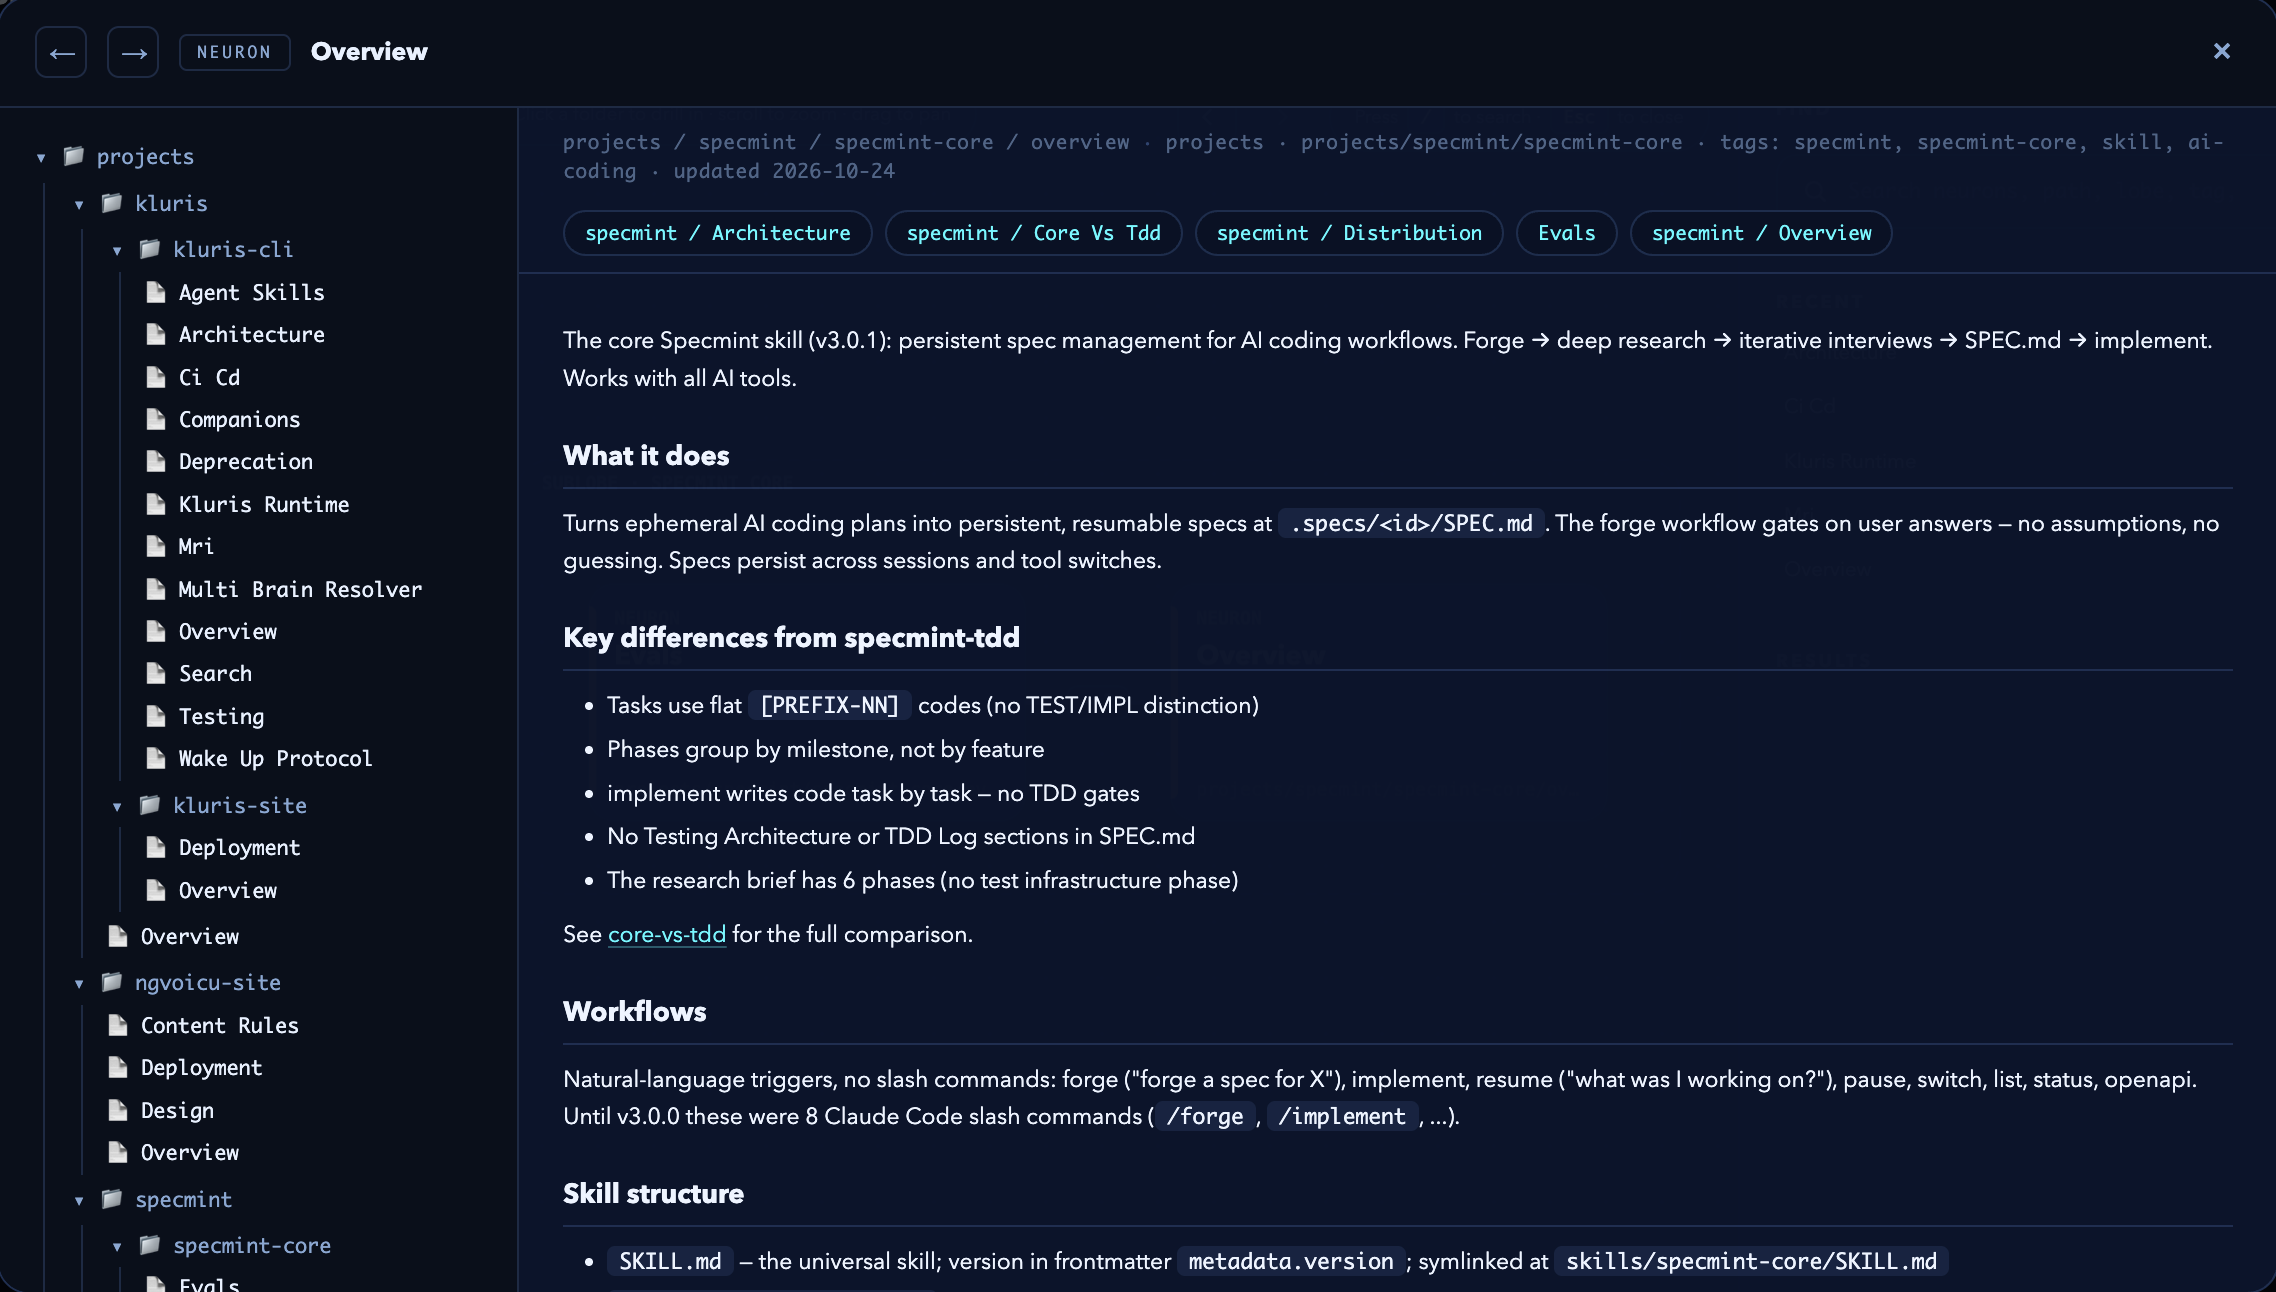
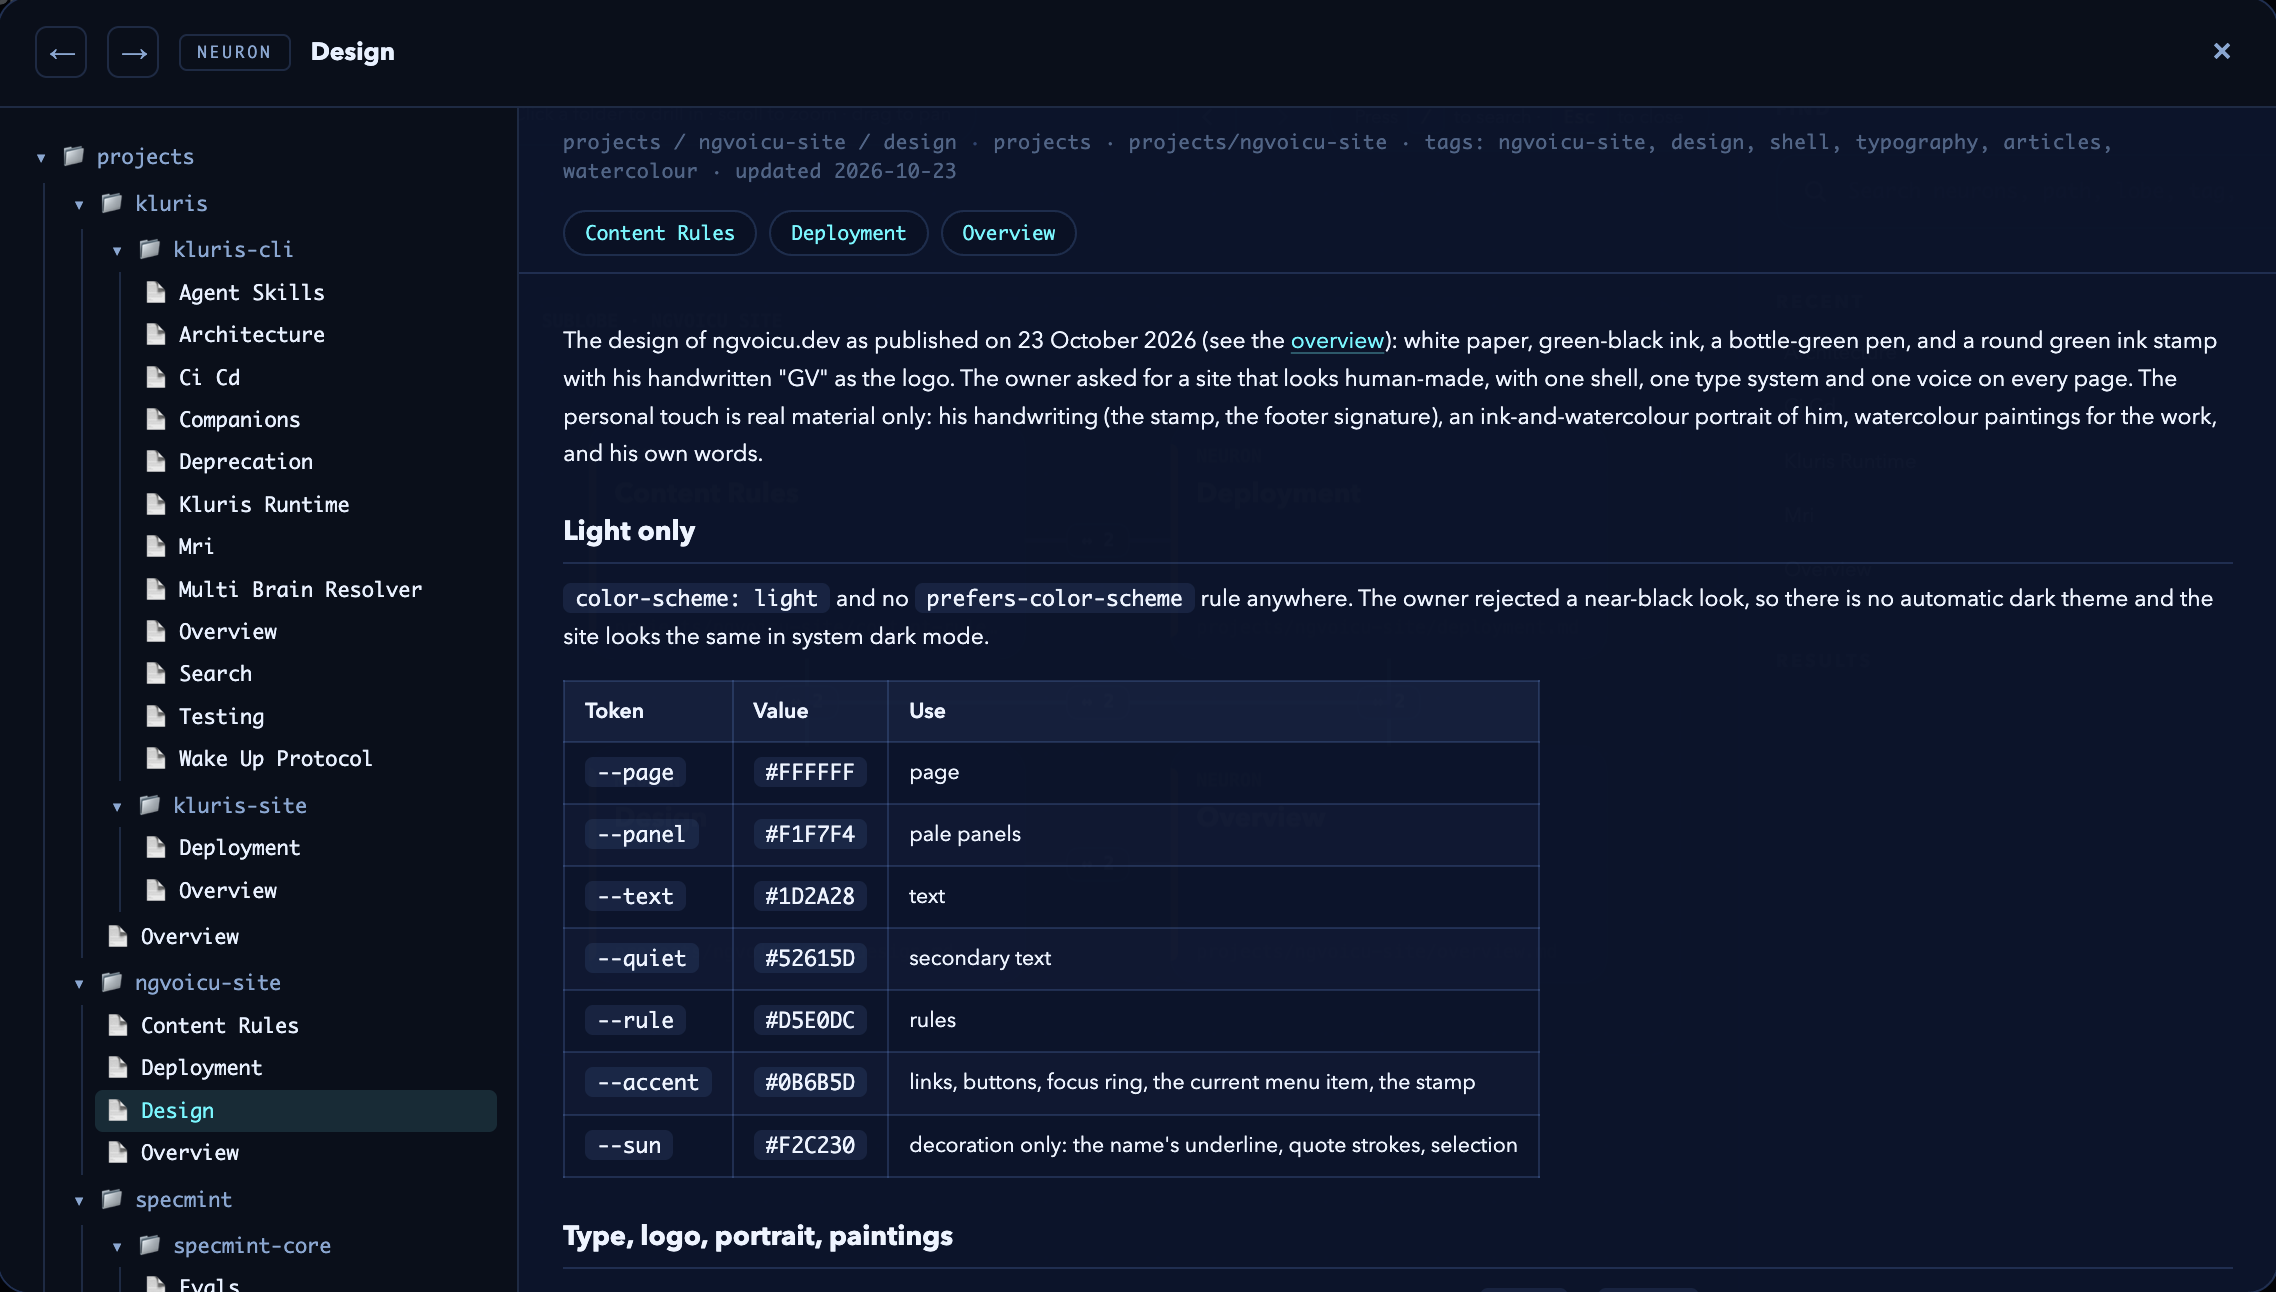
assets: og-image shows kluris.ngvoicu.dev; MRI modal shows a neutral neuron
- og-image.png: the designer's redraw with kluris.ngvoicu.dev as the web
  address; every other pixel is unchanged (1200x630, 163,759 bytes).
- mri-inspector.png: retaken from the same scratch copy of the brain
  with ngvoicu-site's Design neuron open, whose text carries no version
  history (2276x1292).
- CLAUDE.md, AGENTS.md, README: the two image rows say so.

Claude-Session: https://claude.ai/code/session_01V5G2mJXJ3FxpRWGG3T1rE4

diff --git a/AGENTS.md b/AGENTS.md
@@ -31,8 +31,8 @@ Agent claims stay exact; check them against the product README's Agents table an
 | `walkthrough.html` + `walkthrough/01.png`–`22.png` | The screenshot-by-screenshot walkthrough. `01` is the current `kluris create` wizard for `acme` (7-option companion prompt, `Agent skill installed: kluris-acme`); `07` is the C4-style MRI drilled into Projects › Kluris, with red highlights on the breadcrumb, back/forward buttons and the folder's boxes, taken like the MRI renders below. The other screenshots are agent sessions, plus `06` (the brain picker and `kluris mri` output) |
 | `logo.png` / `logo.webp` / `logo.pxd` | Brand logo. `logo.webp` is a reference copy no page loads; the Pixelmator source `logo.pxd` is gitignored (local only) |
 | `specmint-logo.webp` | Specmint logo in the Kluris × Specmint sections (`specmint-logo-with-text.png` is on disk, unreferenced) |
-| `mri-overview.png` / `mri-inspector.png` | `kluris mri` renders of the ngvoicu-sme brain, embedded in `index.html` and `presentation.html` (29 neurons, 242 synapses; the pages quote those counts and `42 nodes, 242 edges`): the root view (lobes as boxes with synapse counts, file tree, Find/Recent) at 1500×1105, and a neuron modal (specmint-core's Overview) at 2276×1292. The product `README.md` embeds `mri-overview.png` by its kluris.ngvoicu.dev URL. Retake them with the `kluris` binary from a scratch copy of the brain with a sandbox `HOME`/`KLURIS_CONFIG`, never the real brain (`kluris mri` runs a dream preflight that writes into it), and leave out of the scratch copy any neuron about a feature the product does not have, so its name stays out of the file tree |
-| `og-image.png` | Open Graph / Twitter Card image (1200×630) — keep under 200 KB or WhatsApp falls back to apple-touch-icon |
+| `mri-overview.png` / `mri-inspector.png` | `kluris mri` renders of the ngvoicu-sme brain, embedded in `index.html` and `presentation.html` (29 neurons, 242 synapses; the pages quote those counts and `42 nodes, 242 edges`): the root view (lobes as boxes with synapse counts, file tree, Find/Recent) at 1500×1105, and a neuron modal (ngvoicu-site's Design neuron, chosen because its text carries no version history) at 2276×1292. The product `README.md` embeds `mri-overview.png` by its kluris.ngvoicu.dev URL. Retake them with the `kluris` binary from a scratch copy of the brain with a sandbox `HOME`/`KLURIS_CONFIG`, never the real brain (`kluris mri` runs a dream preflight that writes into it), and leave out of the scratch copy any neuron about a feature the product does not have, so its name stays out of the file tree |
+| `og-image.png` | Open Graph / Twitter Card image (1200×630): the logo, "kluris", the tagline and `kluris.ngvoicu.dev` — keep under 200 KB or WhatsApp falls back to apple-touch-icon |
 | `favicon-*.png`, `favicon.ico`, `apple-touch-icon.png`, `icon-192.png`, `icon-512.png` | Browser/PWA icons (`favicon.ico` answers the implicit `/favicon.ico` request; no page links it) |
 | `site.webmanifest` | PWA manifest |
 | `install.sh` / `install.ps1` | Kluris 3's one-line installers: `curl -fsSL https://kluris.ngvoicu.dev/install.sh \| sh` and `powershell -ExecutionPolicy ByPass -c "irm https://kluris.ngvoicu.dev/install.ps1 \| iex"`. Thin pass-throughs to the release's own `kluris-installer.sh` / `.ps1` on GitHub (`releases/latest/download/`, or `releases/download/v<KLURIS_VERSION>/` when `KLURIS_VERSION` pins one; `KLURIS_RELEASES_URL` points them elsewhere, for the tests). The `.ps1` sets the execution policy to Bypass for its own process first and reports errors with `throw`, never `exit` (which would close the window under `iex`). The kluris repo tests them (`scripts/release/installer-smoke.sh` / `.ps1`; its ci.yml checks this repo out), so a change here goes with a run there. `BEAT 1`, tour slide 2 and walkthrough phase 1 show both commands |

diff --git a/CLAUDE.md b/CLAUDE.md
@@ -33,8 +33,8 @@ Agent claims stay exact; check them against the product README's Agents table an
 | `walkthrough.html` + `walkthrough/01.png`–`22.png` | The screenshot-by-screenshot walkthrough. `01` is the current `kluris create` wizard for `acme` (7-option companion prompt, `Agent skill installed: kluris-acme`); `07` is the C4-style MRI drilled into Projects › Kluris, with red highlights on the breadcrumb, back/forward buttons and the folder's boxes, taken like the MRI renders below. The other screenshots are agent sessions, plus `06` (the brain picker and `kluris mri` output) |
 | `logo.png` / `logo.webp` / `logo.pxd` | Brand logo. `logo.webp` is a reference copy no page loads; the Pixelmator source `logo.pxd` is gitignored (local only) |
 | `specmint-logo.webp` | Specmint logo in the Kluris × Specmint sections (`specmint-logo-with-text.png` is on disk, unreferenced) |
-| `mri-overview.png` / `mri-inspector.png` | `kluris mri` renders of the ngvoicu-sme brain, embedded in `index.html` and `presentation.html` (29 neurons, 242 synapses; the pages quote those counts and `42 nodes, 242 edges`): the root view (lobes as boxes with synapse counts, file tree, Find/Recent) at 1500×1105, and a neuron modal (specmint-core's Overview) at 2276×1292. The product `README.md` embeds `mri-overview.png` by its kluris.ngvoicu.dev URL. Retake them with the `kluris` binary from a scratch copy of the brain with a sandbox `HOME`/`KLURIS_CONFIG`, never the real brain (`kluris mri` runs a dream preflight that writes into it), and leave out of the scratch copy any neuron about a feature the product does not have, so its name stays out of the file tree |
-| `og-image.png` | Open Graph / Twitter Card image (1200×630) — keep under 200 KB or WhatsApp falls back to apple-touch-icon |
+| `mri-overview.png` / `mri-inspector.png` | `kluris mri` renders of the ngvoicu-sme brain, embedded in `index.html` and `presentation.html` (29 neurons, 242 synapses; the pages quote those counts and `42 nodes, 242 edges`): the root view (lobes as boxes with synapse counts, file tree, Find/Recent) at 1500×1105, and a neuron modal (ngvoicu-site's Design neuron, chosen because its text carries no version history) at 2276×1292. The product `README.md` embeds `mri-overview.png` by its kluris.ngvoicu.dev URL. Retake them with the `kluris` binary from a scratch copy of the brain with a sandbox `HOME`/`KLURIS_CONFIG`, never the real brain (`kluris mri` runs a dream preflight that writes into it), and leave out of the scratch copy any neuron about a feature the product does not have, so its name stays out of the file tree |
+| `og-image.png` | Open Graph / Twitter Card image (1200×630): the logo, "kluris", the tagline and `kluris.ngvoicu.dev` — keep under 200 KB or WhatsApp falls back to apple-touch-icon |
 | `favicon-*.png`, `favicon.ico`, `apple-touch-icon.png`, `icon-192.png`, `icon-512.png` | Browser/PWA icons (`favicon.ico` answers the implicit `/favicon.ico` request; no page links it) |
 | `site.webmanifest` | PWA manifest |
 | `install.sh` / `install.ps1` | Kluris 3's one-line installers: `curl -fsSL https://kluris.ngvoicu.dev/install.sh \| sh` and `powershell -ExecutionPolicy ByPass -c "irm https://kluris.ngvoicu.dev/install.ps1 \| iex"`. Thin pass-throughs to the release's own `kluris-installer.sh` / `.ps1` on GitHub (`releases/latest/download/`, or `releases/download/v<KLURIS_VERSION>/` when `KLURIS_VERSION` pins one; `KLURIS_RELEASES_URL` points them elsewhere, for the tests). The `.ps1` sets the execution policy to Bypass for its own process first and reports errors with `throw`, never `exit` (which would close the window under `iex`). The kluris repo tests them (`scripts/release/installer-smoke.sh` / `.ps1`; its ci.yml checks this repo out), so a change here goes with a run there. `BEAT 1`, tour slide 2 and walkthrough phase 1 show both commands |

diff --git a/README.md b/README.md
@@ -22,11 +22,11 @@ Lives at **[https://kluris.ngvoicu.dev/](https://kluris.ngvoicu.dev/)**.
 | `logo.png` | Brand logo (used in nav, hero, footer) |
 | `logo.webp` | Source brand image (kept as reference; no page loads it) |
 | `specmint-logo.webp` | Specmint logo in the Kluris × Specmint sections (`specmint-logo-with-text.png` is on disk, unreferenced) |
-| `mri-overview.png`, `mri-inspector.png` | `kluris mri` renders of the ngvoicu-sme brain, embedded in `index.html` and `presentation.html`, from the current C4-style viewer: the root view (lobes as boxes with synapse counts, file tree, Find/Recent) and a neuron modal (specmint-core's Overview). The product README embeds `mri-overview.png` by its kluris.ngvoicu.dev URL |
+| `mri-overview.png`, `mri-inspector.png` | `kluris mri` renders of the ngvoicu-sme brain, embedded in `index.html` and `presentation.html`, from the current C4-style viewer: the root view (lobes as boxes with synapse counts, file tree, Find/Recent) and a neuron modal (ngvoicu-site's Design neuron, chosen because its text carries no version history). The product README embeds `mri-overview.png` by its kluris.ngvoicu.dev URL |
 | `favicon-16x16.png`, `favicon-32x32.png`, `favicon.ico` | Browser tab favicons (`favicon.ico` answers the implicit `/favicon.ico` request) |
 | `apple-touch-icon.png` | iOS home screen icon (180×180) |
 | `icon-192.png`, `icon-512.png` | PWA / Android icons |
-| `og-image.png` | Open Graph / Twitter Card image (1200×630) |
+| `og-image.png` | Open Graph / Twitter Card image (1200×630): the logo, "kluris", the tagline and `kluris.ngvoicu.dev`; keep it under 200 KB |
 | `install.sh`, `install.ps1` | The one-line installers the pages show: `curl -fsSL https://kluris.ngvoicu.dev/install.sh \| sh` and `irm https://kluris.ngvoicu.dev/install.ps1 \| iex` |
 | `site.webmanifest` | PWA manifest |
 | `robots.txt` | Search engine directives |
